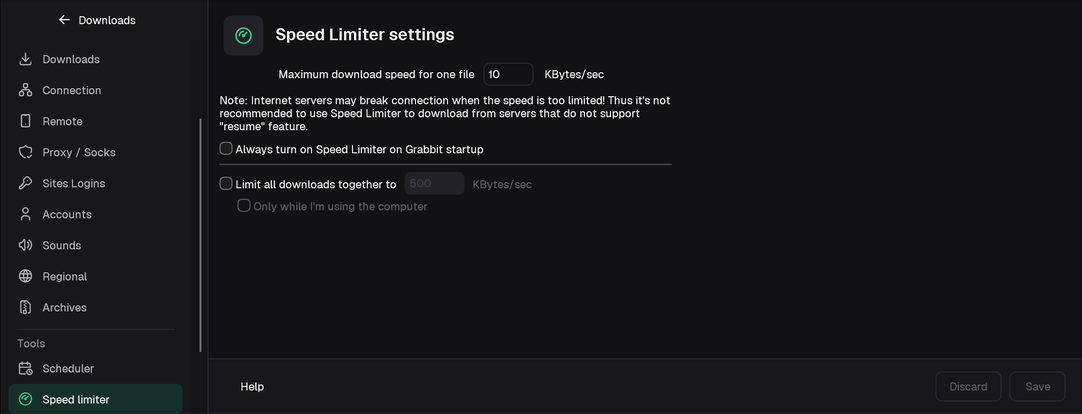
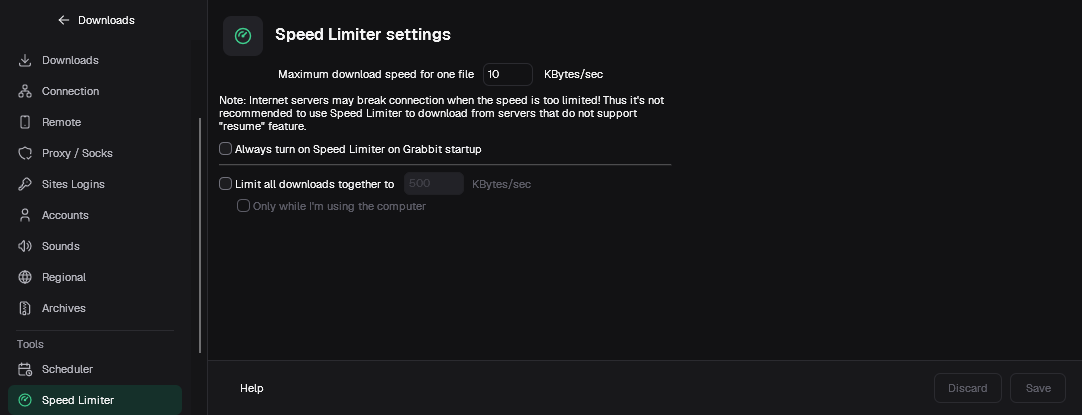
fix(ui): one way into each setting
Torrent settings left the Tasks menu (Tasks adds things; the settings
are Options -> Torrents). Menu items that open a section of Options'
page lost their "..." (a page, not a window, as Options and Scheduler).
Options' side list says "Speed Limiter", as the menus, tray and progress
window do. A test holds the rule; docs, captions and the two affected
help pictures follow.

diff --git a/crates/app/src/app.rs b/crates/app/src/app.rs
@@ -2899,6 +2899,8 @@ impl App {
                     "draw" => "Draw with",
                     "theme" => "Theme",
                     "size" => "&Interface size",
+                    // menu:2:speed: Downloads → Speed Limiter.
+                    "speed" => "Speed &Limiter",
                     _ => "",
                 };
                 let at = self
@@ -7040,7 +7042,8 @@ impl App {
                 I("&Add new download", Cmd::AddUrl, true, false),
                 I("Open &torrent file...", Cmd::OpenTorrentFile, true, false),
                 I("Add &magnet link...", Cmd::AddMagnet, true, false),
-                I("Torrent setti&ngs...", Cmd::TorrentSettings, true, false),
+                // Torrent settings: Options → Torrents only; a menu keeps a shortcut into
+                // Options just beside the tool's own switches (Scheduler, Speed Limiter).
                 I("Add &batch download", Cmd::Batch(false), true, false),
                 I(
                     "Add batch download from &clipboard",
@@ -7161,7 +7164,8 @@ impl App {
                             !self.settings.speed_limit_on,
                         ),
                         Sep,
-                        I("S&ettings...", Cmd::LimiterSettings, true, false),
+                        // No "...": a section of Options' page, not a window, as Options itself.
+                        I("S&ettings", Cmd::LimiterSettings, true, false),
                     ],
                 ),
                 Sep,
@@ -14143,9 +14147,9 @@ mod settings_page_tests {
         let ctx = egui::Context::default();
         let page = |a: &App| a.settings_page.as_ref().map(|p| p.page());
         a.run(Cmd::LimiterSettings, None, &ctx);
-        assert_eq!(page(&a), Some(SPEED_PAGE), "Speed Limiter → Settings...");
+        assert_eq!(page(&a), Some(SPEED_PAGE), "Speed Limiter → Settings");
         a.run(Cmd::TorrentSettings, None, &ctx);
-        assert_eq!(page(&a), Some(TORRENTS_PAGE), "Torrent settings...");
+        assert_eq!(page(&a), Some(TORRENTS_PAGE), "Cmd::TorrentSettings");
         for (name, want) in [
             ("speedlimit", SPEED_PAGE),
             ("torrent-settings", TORRENTS_PAGE),
@@ -14172,6 +14176,51 @@ mod settings_page_tests {
         a.show_named("extension", &ctx);
         assert!(a.settings_page.is_none(), "the offer's window instead");
         assert!(a.extension.is_some());
+    }
+
+    /// The menus' ways into Options' page: no "..." (a page, not a window), and none in Tasks
+    /// (adding things); Downloads keeps Options and the shortcuts beside the tools' switches.
+    #[test]
+    fn menu_shortcuts_into_options_agree() {
+        use crate::chrome::MenuEntry;
+        fn walk(e: &[MenuEntry<Cmd>], out: &mut Vec<(&'static str, bool)>) {
+            for e in e {
+                match e {
+                    MenuEntry::Item(l, c, ..) | MenuEntry::Radio(l, c, ..) => {
+                        let opens_page = matches!(
+                            c,
+                            Cmd::Options
+                                | Cmd::Scheduler
+                                | Cmd::LimiterSettings
+                                | Cmd::TorrentSettings
+                        );
+                        out.push((l, opens_page));
+                    }
+                    MenuEntry::Sub(_, _, kids) => walk(kids, out),
+                    MenuEntry::Sep => {}
+                }
+            }
+        }
+        let a = app(Vec::new());
+        let items = |i| {
+            let mut out = Vec::new();
+            walk(&a.menu_entries(i), &mut out);
+            out
+        };
+        assert!(
+            !items(0).iter().any(|(_, page)| *page),
+            "Tasks has no way into Options"
+        );
+        let downloads: Vec<_> = items(2).into_iter().filter(|(_, p)| *p).collect();
+        assert_eq!(
+            downloads.iter().map(|(l, _)| *l).collect::<Vec<_>>(),
+            ["S&cheduler", "S&ettings", "&Options"]
+        );
+        for i in 0..5 {
+            for (l, page) in items(i) {
+                assert!(!(page && l.ends_with("...")), "{l}: a page, no \"...\"");
+            }
+        }
     }
 
     /// Plan 11b2: Save sets the Speed limiter's and Torrents' changes (as their OK did), then

diff --git a/crates/app/src/dialogs.rs b/crates/app/src/dialogs.rs
@@ -1874,7 +1874,7 @@ impl Complete {
 
 // ---- Speed Limiter settings (client 453 × 145, light) --------------------------------------
 
-/// Downloads → Speed Limiter → Settings... (notes/ui-spec/scheduler-and-misc.md §2).
+/// Downloads → Speed Limiter → Settings (notes/ui-spec/scheduler-and-misc.md §2).
 pub struct SpeedSettings {
     pub kb: String,
     pub on_startup: bool,

diff --git a/crates/app/src/options.rs b/crates/app/src/options.rs
@@ -4407,7 +4407,7 @@ const TOOLS: [(usize, &str, &str, &str); 4] = [
     (
         SPEED_PAGE,
         // i18n: Options in the main window: the side list's section with the Speed Limiter's settings
-        crate::i18n::mark("Speed limiter"),
+        crate::i18n::mark("Speed Limiter"),
         "gx-gauge",
         crate::i18n::mark("Speed Limiter settings"),
     ),

diff --git a/crates/app/src/settingspage.rs b/crates/app/src/settingspage.rs
@@ -999,7 +999,7 @@ mod tests {
         for (section, row, control) in [
             (
                 SPEED_PAGE,
-                "Speed limiter",
+                "Speed Limiter",
                 &["Always turn on Speed Limiter on Grabbit startup"][..],
             ),
             (

diff --git a/docs/getting-started.md b/docs/getting-started.md
@@ -58,9 +58,9 @@ window offers them when you first need them. More in [Videos](video.md).
 From top to bottom:
 
 - **Menu bar.**
-  - **Tasks** — add downloads, torrents, magnet links, batch downloads and videos from a page; **Torrent settings**; **Link grabber**; **RSS feeds**; show the drop target; import and export the list; exit.
+  - **Tasks** — add downloads, torrents, magnet links, batch downloads and videos from a page; **Link grabber**; **RSS feeds**; show the drop target; import and export the list; exit.
   - **File** — the selected download: **Stop Download**, **Remove**, **Download Now**, **Redownload**.
-  - **Downloads** — **Pause All**, **Stop All**, **Delete All Completed**, **Find**, the **Scheduler**, queues, the **Speed Limiter** and **Options**.
+  - **Downloads** — **Pause All**, **Stop All**, **Delete All Completed**, **Find**, the **Scheduler**, queues, the **Speed Limiter** and **Options** (every setting, torrents' too).
   - **View** — show or hide the categories, sort the list (**Arrange files**), **Theme**, **Interface size** (every window larger, 100 % to 200 %; **Ctrl +**, **Ctrl −** and **Ctrl 0** too), **Draw with** (OpenGL or Direct3D) and **Language**.
   - **Help** — help pages and tutorials (on the website), **Keyboard shortcuts**, **Report a problem**, **Check for updates**, **About**, **Tell a friend** and **Support Grabbit** (Grabbit's page on GitHub, to star it: optional, nothing in Grabbit changes).
 - **Toolbar.** **Add**, **Resume**, **Stop**, **Stop All**, **Delete**, **Delete Completed**, **Options**, **Scheduler**, **Start Queue**, **Stop Queue**. **Add** takes links, magnet links, `.torrent` files and video pages alike. The small arrow next to **Add**, **Start Queue** and **Stop Queue** opens more choices.

diff --git a/docs/browser-integration.md b/docs/browser-integration.md
@@ -51,7 +51,7 @@ When you click a download, the extension checks Grabbit's Options:
 - **Options → File types → Automatically start downloading the following file types** must list the file's type. The list starts with the usual ones: ZIP, RAR, 7Z, EXE, MSI, ISO, DMG, DEB, RPM, APPIMAGE, MP3, MP4, MKV, WEBM, PDF, AI models such as GGUF and SAFETENSORS, 3D files such as GLB and STL, and many more. Anything else can be added to the list.
 - **Options → File types → Don't start downloading automatically from the following sites** must not list the site. Names are separated by spaces, and `*` matches any part, as in `*.update.microsoft.com`. **Edit list ...** below it lists whole addresses to leave alone, one per line (`https://example.com/private/*`).
 - **Options → File types → Don't take files smaller than** leaves small files (a receipt, an icon) to the browser. 0 takes any size.
-- A `.torrent` file goes to Grabbit only while **Tasks → Torrent settings → Open magnet links and .torrent files with Grabbit** is on. Off, the browser keeps it and opens it in your own torrent program. See [Torrents](torrents.md#add-a-torrent).
+- A `.torrent` file goes to Grabbit only while **Downloads → Options → Torrents → Open magnet links and .torrent files with Grabbit** is on. Off, the browser keeps it and opens it in your own torrent program. See [Torrents](torrents.md#add-a-torrent).
 - The extension must be allowed to read the site. When you limit it to some sites (or **On click**), it can't pass your sign-in on, so it leaves those sites' downloads to the browser.
 
 ![Options, General: Use advanced browser integration and the list of browsers Grabbit takes downloads from](images/help/options-integration.webp)

diff --git a/CHANGELOG.md b/CHANGELOG.md
@@ -9,6 +9,7 @@ Each release's notes on GitHub come from its section here (`## [X.Y.Z]`, see
 
 - **A smaller button over videos.** The browser extension's button is now a 30-pixel round chip in Graphite's colours, dark glass with a green arrow, in place of the wide light **Download video** bar. Pointing at it opens it to **Download video ⌄**, toward the inside of the video, with the arrow staying under the pointer; after a click it says for two seconds what happened (a tick and **Sent to Grabbit**, or a red mark and why not). Its menu lost **Download video**, which did what the button does; **Hide on this video**, **Never on** the site and **Button settings...** are unchanged. It still drags to any edge and stays there on that site.
 - **Grabbit's own author and publisher.** The website's footer, its privacy and terms pages, the app's file details (**Properties → Details**) and the installer name HUMBLEF0OL, Grabbit's maintainer. The copyright notices still name Ahmed Nefzaoui, the author of Mister Download Manager that Grabbit is forked from.
+- **One way into Torrent settings.** **Tasks → Torrent settings...** is gone: the Tasks menu adds things, and Torrent settings are the **Torrents** section of **Downloads → Options**, under **Tools**. **Downloads → Speed Limiter → Settings** lost its "...", as Options and the Scheduler have none: they open a section of the main window, not a window. Options' side list says **Speed Limiter**, as the menus, the tray and the progress window do.
 
 ## [1.0.1] - 2026-11-20
 

diff --git a/docs/guide-keep-speed-for-everything-else.md b/docs/guide-keep-speed-for-everything-else.md
@@ -6,7 +6,7 @@ A download manager can fill your whole connection. These steps cap Grabbit so th
 
 ## Cap Grabbit as a whole (recommended)
 
-1. Choose **Downloads → Speed Limiter → Settings...**.
+1. Choose **Downloads → Speed Limiter → Settings**.
 2. Tick **Limit all downloads together to** and type a speed in KBytes/sec. A good start is about two thirds of your connection's speed. (1 MByte/sec is about 1000 KBytes/sec.)
 3. Tick **Only while I'm using the computer** if you want full speed when you're away. Grabbit goes back to full speed after a minute without mouse or keyboard input.
 4. Click **Save**. The settings open in the main window, in place of the download list; **← Downloads** goes back to it.
@@ -16,7 +16,7 @@ This cap is shared by every download, however many run at once. It works on its 
 To remove it, open the same settings and untick **Limit all downloads together to**.
 
 ![Speed Limiter settings: the maximum speed for one file, and a limit for all downloads together](images/help/speed-limiter.webp)
-*Downloads → Speed Limiter → Settings...: a speed for each file, or one for all downloads together.*
+*Downloads → Speed Limiter → Settings: a speed for each file, or one for all downloads together.*
 
 ## Cap each file instead
 

diff --git a/docs/options.md b/docs/options.md
@@ -176,8 +176,8 @@ Control Grabbit from your phone or another computer on the local network: see
 
 A few settings live outside Options' twelve pages:
 
-- **Downloads → Speed Limiter → Settings...** — speed limits, the **Speed limiter** section under **Tools**. See [Connections and speed](connections-and-speed.md#speed-limiter).
-- **Tasks → Torrent settings...** — sharing and file associations, and whether the browser hands `.torrent` downloads to Grabbit, the **Torrents** section under **Tools**. See [Torrents](torrents.md#torrent-settings).
+- **Downloads → Speed Limiter → Settings** — speed limits, the **Speed Limiter** section under **Tools**. See [Connections and speed](connections-and-speed.md#speed-limiter).
+- The **Torrents** section under **Tools** — sharing and file associations, and whether the browser hands `.torrent` downloads to Grabbit. See [Torrents](torrents.md#torrent-settings).
 - The status bar's light/dark button, **View → Theme**, **Draw with**, and **Interface size**. See [Getting started](getting-started.md#themes) and [Troubleshooting](troubleshooting.md).
 - **Help → Check for updates...** — **Check for updates at every start** is in that window.
 

diff --git a/docs/torrents.md b/docs/torrents.md
@@ -98,10 +98,10 @@ Feeds and rules are kept in `rss.json` in Grabbit's data folder. Grabbit reads a
 
 ## Torrent settings
 
-Choose **Tasks → Torrent settings...**. They open in the main window, as the **Torrents** section of [Options](options.md), listed under **Tools**; **Save** keeps your changes, **Discard** throws them away, and **← Downloads** goes back to the list:
+Choose **Downloads → Options**, then **Torrents** under **Tools** in the list down the side. They open in the main window, as that section of [Options](options.md); **Save** keeps your changes, **Discard** throws them away, and **← Downloads** goes back to the list:
 
 ![Torrent settings: sharing, limits and what others can see](images/help/torrent-settings.webp)
-*Tasks → Torrent settings...*
+*Downloads → Options → Torrents*
 
 - **Keep sharing torrents after they finish** — off by default: a finished torrent stops, like any download. Turn it on to keep uploading to other peers after your download is complete.
   - **Stop sharing at a share ratio of** — a finished torrent stops being shared once it has sent that many times what it has (2.00: twice). Off by default.

diff --git a/docs/portable.md b/docs/portable.md
@@ -25,7 +25,7 @@ Delete the `data` folder (or make it read-only) and the same copy behaves like t
 - **Downloads still go to the computer's Downloads folder** unless you change it. To keep them with Grabbit, set each category's folder in **Options → Save to**. [Carry Grabbit on a USB stick](guide-usb-stick.md) shows how.
 - **Launch Grabbit on startup** in **Options → General** is greyed: starting with Windows needs the registry.
 - **Browser integration needs the installer.** The browser finds Grabbit's helper through the registry, so a portable copy can't take downloads from the browser. Use **Add**, the clipboard or the drop target instead (see [Adding downloads](adding-downloads.md)).
-- **Tasks → Torrent settings → Open magnet links and .torrent files with Grabbit** does write to the registry, for your Windows account only. Leave it off to keep the portable copy registry-free.
+- **Downloads → Options → Torrents → Open magnet links and .torrent files with Grabbit** does write to the registry, for your Windows account only. Leave it off to keep the portable copy registry-free.
 
 ## Moving between computers
 

diff --git a/docs/troubleshooting.md b/docs/troubleshooting.md
@@ -26,7 +26,7 @@ Every download keeps a log of its recent events: retries, redirects, the server'
 
 ## Downloads are slow
 
-- Check that the Speed Limiter is off: **Downloads → Speed Limiter → Turn off**. Also look at **Downloads → Speed Limiter → Settings... → Limit all downloads together to**, which applies even with the limiter off.
+- Check that the Speed Limiter is off: **Downloads → Speed Limiter → Turn off**. Also look at **Downloads → Speed Limiter → Settings → Limit all downloads together to**, which applies even with the limiter off.
 - Check the download's own **Speed Limiter** tab in its progress window.
 - Check **Options → Connection**. A low **Default max. conn. number**, or an exception for the server, means fewer connections. Rows marked **(auto)** are servers that refused more connections; Grabbit can't do more there.
 - Check **Download limits** in the Scheduler. When the limit is reached, downloads wait with **Waiting: the download limit is reached (Scheduler)**.
